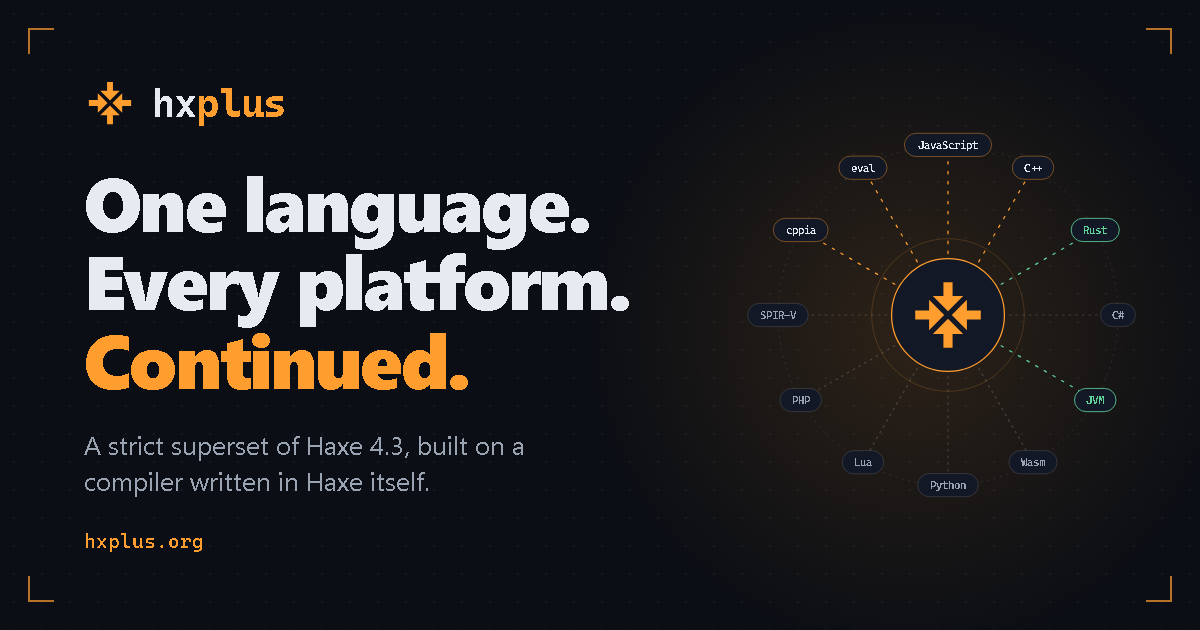
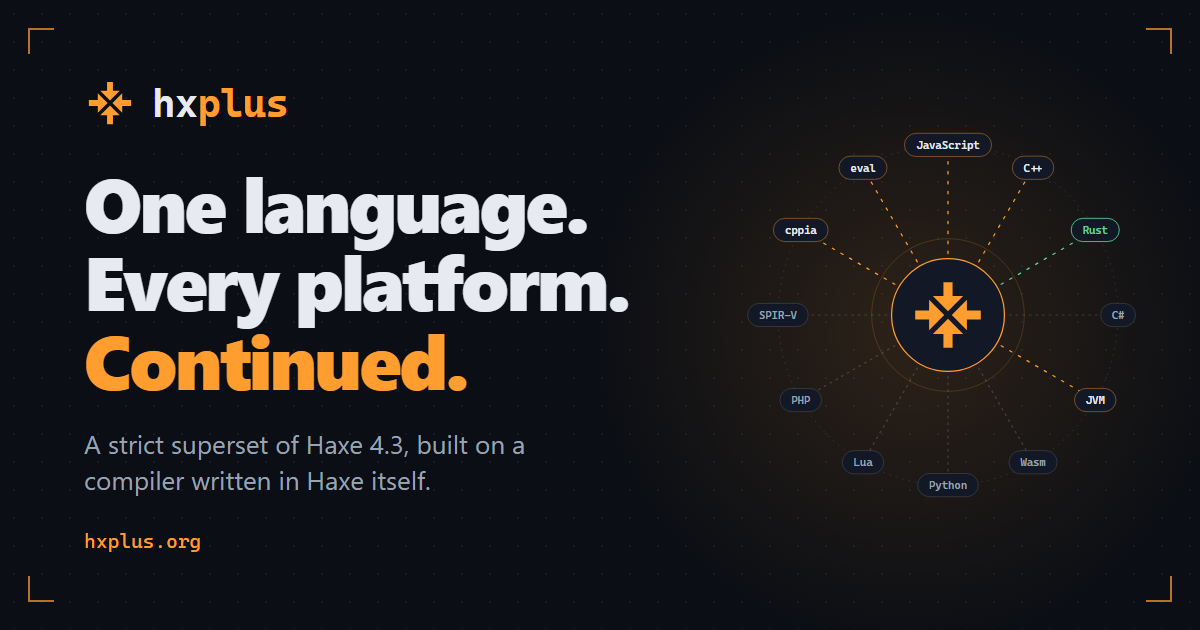
Link GitHub and haxelib, mark JVM as supported, and hold haxe.run until it launches

diff --git a/index.html b/index.html
@@ -50,7 +50,7 @@ try {
       <a href="#toolchain">Toolchain</a>
       <a href="#roadmap">Roadmap</a>
       <a href="#faq">FAQ</a>
-      <a class="nav-out" href="https://haxe.run">Playground <span aria-hidden="true">&#8599;</span></a>
+      <a class="nav-out" href="https://github.com/dimensionscape/hxc">GitHub <span aria-hidden="true">&#8599;</span></a>
     </nav>
     <button class="theme-toggle" id="themeToggle" aria-label="Toggle theme"><span class="tt-sun">&#9728;</span><span class="tt-moon">&#9790;</span></button>
     <a class="btn btn-small" href="#whitepaper">Whitepaper</a>
@@ -80,8 +80,8 @@ try {
           a modern toolchain, and a compiler built so that adding platforms is cheap.
         </p>
         <div class="cta-row">
-          <a class="btn btn-primary" href="#whitepaper">Read the whitepaper</a>
-          <a class="btn btn-ghost" href="https://haxe.run">Try it in the browser</a>
+          <a class="btn btn-primary" href="https://github.com/dimensionscape/hxc">Get hxc</a>
+          <a class="btn btn-ghost" href="#whitepaper">Read the whitepaper</a>
         </div>
       </div>
 
@@ -95,7 +95,7 @@ try {
             <line class="ray ray-t1" style="--i:1" x1="307.0" y1="205.9" x2="372.5" y2="92.5"/>
             <line class="ray ray-go" style="--i:2" x1="334.1" y1="233.0" x2="447.5" y2="167.5"/>
             <line class="ray ray-plan" style="--i:3" x1="344.0" y1="270.0" x2="475.0" y2="270.0"/>
-            <line class="ray ray-go" style="--i:4" x1="334.1" y1="307.0" x2="447.5" y2="372.5"/>
+            <line class="ray ray-t1" style="--i:4" x1="334.1" y1="307.0" x2="447.5" y2="372.5"/>
             <line class="ray ray-plan" style="--i:5" x1="307.0" y1="334.1" x2="372.5" y2="447.5"/>
             <line class="ray ray-plan" style="--i:6" x1="270.0" y1="344.0" x2="270.0" y2="475.0"/>
             <line class="ray ray-plan" style="--i:7" x1="233.0" y1="334.1" x2="167.5" y2="447.5"/>
@@ -118,7 +118,7 @@ try {
             <g class="node node-t1" transform="translate(372.5 92.5)"><rect x="-25" y="-14" width="50" height="28" rx="14"/><text y="4.6">C++</text></g>
             <g class="node node-go" transform="translate(447.5 167.5)"><rect x="-29" y="-14" width="58" height="28" rx="14"/><text y="4.6">Rust</text></g>
             <g class="node node-plan" transform="translate(475.0 270.0)"><rect x="-21" y="-14" width="42" height="28" rx="14"/><text y="4.6">C#</text></g>
-            <g class="node node-go" transform="translate(447.5 372.5)"><rect x="-25" y="-14" width="50" height="28" rx="14"/><text y="4.6">JVM</text></g>
+            <g class="node node-t1" transform="translate(447.5 372.5)"><rect x="-25" y="-14" width="50" height="28" rx="14"/><text y="4.6">JVM</text></g>
             <g class="node node-plan" transform="translate(372.5 447.5)"><rect x="-29" y="-14" width="58" height="28" rx="14"/><text y="4.6">Wasm</text></g>
             <g class="node node-plan" transform="translate(270.0 475.0)"><rect x="-36.5" y="-14" width="73" height="28" rx="14"/><text y="4.6">Python</text></g>
             <g class="node node-plan" transform="translate(167.5 447.5)"><rect x="-25" y="-14" width="50" height="28" rx="14"/><text y="4.6">Lua</text></g>
@@ -241,13 +241,16 @@ try {
         <div>
           <div class="code-window">
             <div class="code-titlebar"><span class="code-filename">terminal</span></div>
-<pre><code><span class="c"># same CLI, same hxml, same output</span>
-<span class="k">$</span> hxc build.hxml
-<span class="k">$</span> haxe build.hxml
-<span class="k">$</span> diff -r out/hxc out/haxe
-<span class="s">  identical</span></code></pre>
+<pre><code><span class="c"># install it from haxelib</span>
+<span class="k">$</span> haxelib install hxc
+<span class="c"># then use it wherever you would run haxe</span>
+<span class="k">$</span> haxelib run hxc build.hxml</code></pre>
           </div>
-          <p class="code-caption">Same command line, same output.</p>
+          <p class="code-caption">Same command line, same hxml.</p>
+          <div class="code-links">
+            <a class="btn btn-small" href="https://github.com/dimensionscape/hxc">hxc on GitHub</a>
+            <a class="btn btn-small" href="https://lib.haxe.org/p/hxc/">hxc on haxelib</a>
+          </div>
         </div>
       </div>
     </div>
@@ -266,11 +269,10 @@ try {
           same way.
         </p>
         <p class="section-lede section-lede-tight">
-          That is <strong>haxe.run</strong>, the playground every hx+ proposal will ship with, so the
-          community can argue about a feature by running it.
+          That's <strong>haxe.run</strong>, launching soon: the playground every hx+ proposal will ship with, so the community can argue about a feature by running it.
         </p>
         <div class="cta-row">
-          <a class="btn btn-primary" href="https://haxe.run">Open haxe.run</a>
+          <span class="btn btn-ghost" aria-disabled="true">Launching soon</span>
         </div>
       </div>
 
@@ -450,6 +452,7 @@ try {
             <li>C++ <span class="aside">hxcpp</span></li>
             <li>eval <span class="aside">macros</span></li>
             <li>cppia</li>
+            <li>JVM <span class="aside">bytecode</span></li>
           </ul>
         </div>
         <div class="board-col ticks">
@@ -459,7 +462,6 @@ try {
             <li>C# <span class="aside">modern .NET</span></li>
             <li>Java <span class="aside">modern JVM</span></li>
             <li>WebAssembly <span class="aside">WasmGC</span></li>
-            <li class="going">JVM bytecode <span class="aside">in progress</span></li>
             <li>PHP</li>
             <li>Python</li>
             <li>Lua</li>
@@ -630,13 +632,10 @@ try {
       <h2>Roadmap</h2>
       <div class="status-box">
         <p><strong>Where things stand, honestly.</strong> This work did not begin recently: the earliest
-        prototypes date to the Haxe 3 era. Today hxc compiles real projects and passes an 18-gate parity
-        battery against the reference 4.3 compiler: Haxe's unit suite with JavaScript and C++ output
+        prototypes date to the Haxe 3 era. Today hxc 0.6.6 is on haxelib. It compiles real projects and passes an 18-gate parity battery against the reference 4.3 compiler: Haxe's unit suite with JavaScript and C++ output
         byte-identical across the dead-code and analyzer settings, Haxe's sys and threads suites under its interpreter, every hxcpp test suite, the warm compilation server, and a rebuild of its
-        own source. It builds Lime and OpenFL applications, and compiled to WebAssembly it powers the
-        haxe.run playground. hxia runs: one mod, compiled once, loads into the C++ and JavaScript builds of
-        the same game and plays identically. The experimental Rust backend runs, and a JVM bytecode
-        generator is in progress. The hx+ language features and the modern networking package are designed
+        own source. It builds Lime and OpenFL applications, and compiled to WebAssembly it runs in the browser, which is what the haxe.run playground is built on. hxia runs: one mod, compiled once, loads into the C++ and JavaScript builds of
+        the same game and plays identically. hxc also generates JVM bytecode, and the experimental Rust backend runs. The hx+ language features and the modern networking package are designed
         and specified but not yet shipped. They land in the order below, and nothing here should be read as
         claiming otherwise.</p>
       </div>
@@ -669,8 +668,7 @@ try {
         <li>
           <span class="phase-state">Planned</span>
           <h3>Phase 5: Widening the matrix</h3>
-          <p>Rust to full conformance, and JVM bytecode landed as a target package. Clean-sheet C# and
-          Java. WebAssembly on WasmGC. PHP, Python, and Lua carried forward as their conformance suites go
+          <p>Rust to full conformance. Clean-sheet C# and Java. WebAssembly on WasmGC. PHP, Python, and Lua carried forward as their conformance suites go
           green.</p>
         </li>
         <li>
@@ -692,8 +690,8 @@ try {
         The full case: why we built it, the compiler, the compatibility rules, licensing and the plan.
       </p>
       <div class="cta-row cta-center">
-        <a class="btn btn-primary" href="#" aria-disabled="true">Whitepaper (link at launch)</a>
-        <a class="btn btn-ghost" href="#" aria-disabled="true">GitHub (link at launch)</a>
+        <a class="btn btn-primary" href="#" aria-disabled="true">Whitepaper (coming soon)</a>
+        <a class="btn btn-ghost" href="https://github.com/dimensionscape/hxc">hxc on GitHub</a>
       </div>
 
       <div class="invitation">
@@ -752,9 +750,12 @@ try {
         workflows, and speaks the same display and diagnostics protocol that powers today's IDE plugins.</p>
       </details>
       <details>
-        <summary>Can I try it without installing anything?</summary>
-        <p>Yes. hxc compiles to WebAssembly, so <a href="https://haxe.run">haxe.run</a> runs the
-        compiler entirely in your browser tab. Nothing is uploaded and there is nothing to install.</p>
+        <summary>How do I try hxc?</summary>
+        <p>Install it from haxelib with <code>haxelib install hxc</code>, then run
+        <code>haxelib run hxc build.hxml</code> wherever you would run haxe. The package includes the
+        compiler for Windows x64; on other platforms, build it from source (see
+        <a href="https://github.com/dimensionscape/hxc">GitHub</a>). A browser playground at haxe.run is coming, so you will be able
+        to try it with nothing installed.</p>
       </details>
       <details>
         <summary>How would I add a target?</summary>
@@ -792,7 +793,8 @@ try {
       <p class="footer-tag">A community superset of Haxe.</p>
     </div>
     <nav class="footer-links" aria-label="Elsewhere">
-      <a href="https://haxe.run">haxe.run</a>
+      <a href="https://github.com/dimensionscape/hxc">GitHub</a>
+      <a href="https://lib.haxe.org/p/hxc/">haxelib</a>
       <a href="#whitepaper">Whitepaper</a>
       <a href="#faq">FAQ</a>
     </nav>

diff --git a/_dev/og-image.html b/_dev/og-image.html
@@ -72,7 +72,7 @@
           <line class="ray ray-t1" style="--i:1" x1="307.0" y1="205.9" x2="372.5" y2="92.5"/>
           <line class="ray ray-go" style="--i:2" x1="334.1" y1="233.0" x2="447.5" y2="167.5"/>
           <line class="ray ray-plan" style="--i:3" x1="344.0" y1="270.0" x2="475.0" y2="270.0"/>
-          <line class="ray ray-go" style="--i:4" x1="334.1" y1="307.0" x2="447.5" y2="372.5"/>
+          <line class="ray ray-t1" style="--i:4" x1="334.1" y1="307.0" x2="447.5" y2="372.5"/>
           <line class="ray ray-plan" style="--i:5" x1="307.0" y1="334.1" x2="372.5" y2="447.5"/>
           <line class="ray ray-plan" style="--i:6" x1="270.0" y1="344.0" x2="270.0" y2="475.0"/>
           <line class="ray ray-plan" style="--i:7" x1="233.0" y1="334.1" x2="167.5" y2="447.5"/>
@@ -95,7 +95,7 @@
           <g class="node node-t1" transform="translate(372.5 92.5)"><rect x="-25" y="-14" width="50" height="28" rx="14"/><text y="4.6">C++</text></g>
           <g class="node node-go" transform="translate(447.5 167.5)"><rect x="-29" y="-14" width="58" height="28" rx="14"/><text y="4.6">Rust</text></g>
           <g class="node node-plan" transform="translate(475.0 270.0)"><rect x="-21" y="-14" width="42" height="28" rx="14"/><text y="4.6">C#</text></g>
-          <g class="node node-go" transform="translate(447.5 372.5)"><rect x="-25" y="-14" width="50" height="28" rx="14"/><text y="4.6">JVM</text></g>
+          <g class="node node-t1" transform="translate(447.5 372.5)"><rect x="-25" y="-14" width="50" height="28" rx="14"/><text y="4.6">JVM</text></g>
           <g class="node node-plan" transform="translate(372.5 447.5)"><rect x="-29" y="-14" width="58" height="28" rx="14"/><text y="4.6">Wasm</text></g>
           <g class="node node-plan" transform="translate(270.0 475.0)"><rect x="-36.5" y="-14" width="73" height="28" rx="14"/><text y="4.6">Python</text></g>
           <g class="node node-plan" transform="translate(167.5 447.5)"><rect x="-25" y="-14" width="50" height="28" rx="14"/><text y="4.6">Lua</text></g>

diff --git a/assets/style.css b/assets/style.css
@@ -661,6 +661,13 @@ code {
 .n { color: #6fb7ff; }   /* numbers */
 .f { color: #c792ea; }   /* function names */
 
+.code-links {
+  display: flex;
+  justify-content: center;
+  gap: 10px;
+  margin-top: 14px;
+}
+
 .code-caption {
   margin-top: 14px;
   font-family: var(--mono);
